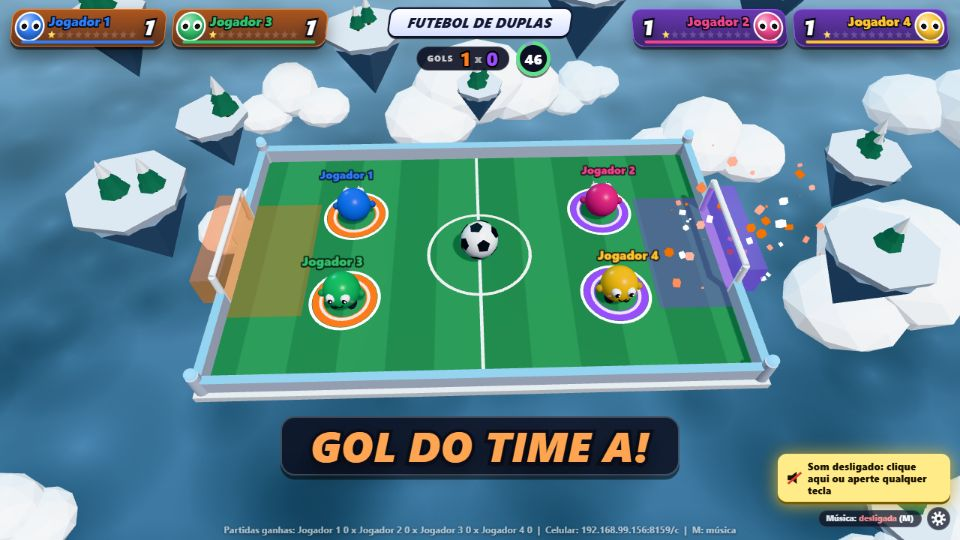
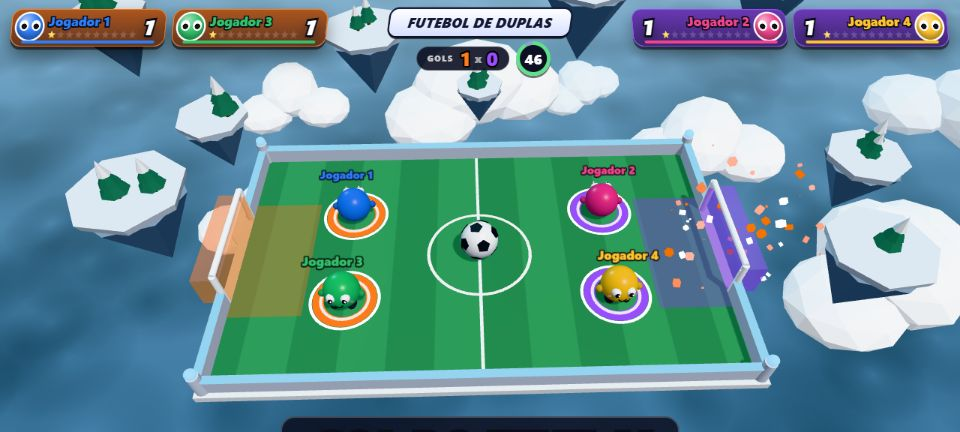
fix: grava os SVGs com LF e tira o rodapé com IP do print do jogo
Adiciona .gitattributes para manter .py, .svg e .md em LF.

diff --git a/scripts/perfil.py b/scripts/perfil.py
@@ -39,7 +39,7 @@ def jpeg(caminho):
 
 def salvar(caminho, w, h, rotulo, corpo):
     os.makedirs(os.path.dirname(caminho), exist_ok=True)
-    with open(caminho, "w", encoding="utf-8") as f:
+    with open(caminho, "w", encoding="utf-8", newline="\n") as f:
         f.write(f'<svg xmlns="http://www.w3.org/2000/svg" width="{w}" height="{h}" viewBox="0 0 {w} {h}" role="img" aria-label="{rotulo}">\n'
                 + "\n".join(corpo) + "\n</svg>")
 
